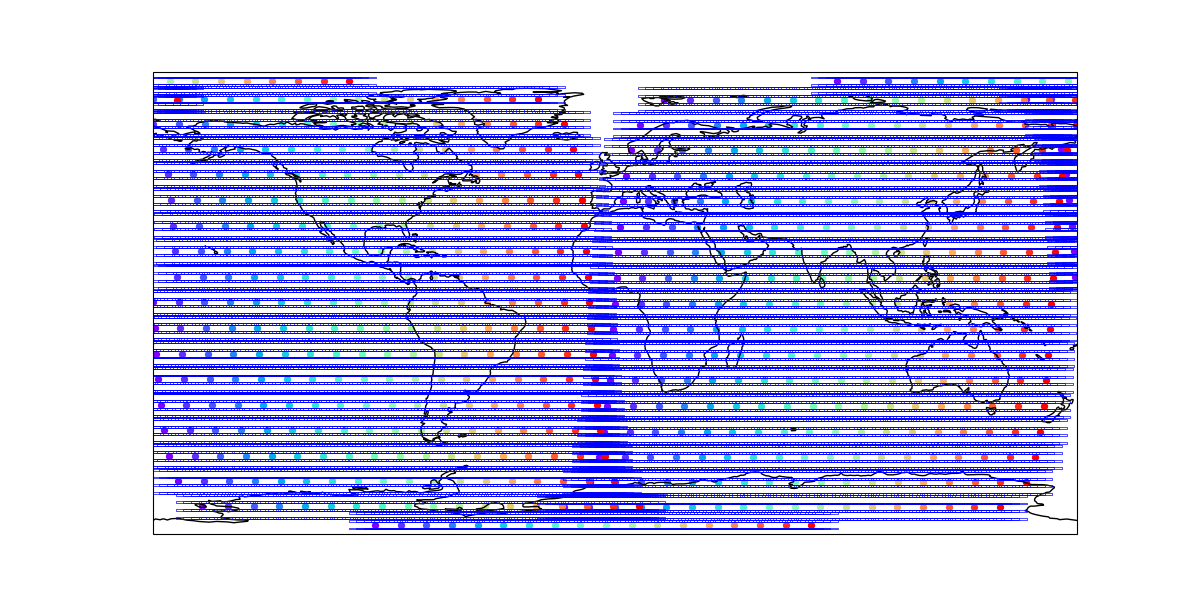
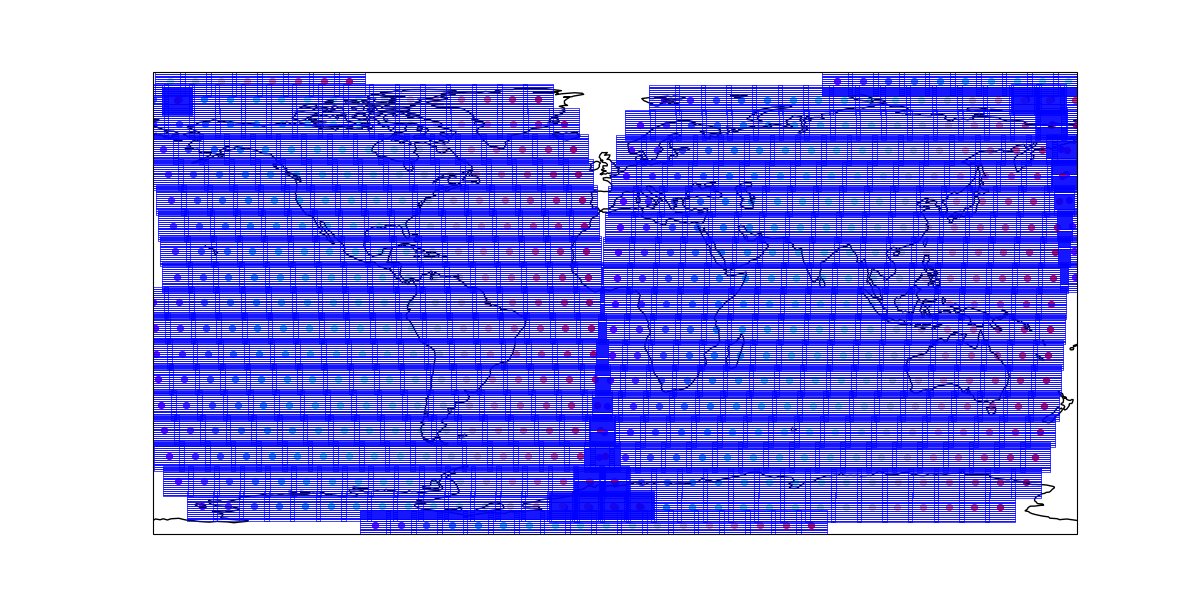
Fixed beam rectangles

diff --git a/LEOEnvironment.py b/LEOEnvironment.py
@@ -217,23 +217,31 @@ class Satellite:
         self.init_beams()
 
     def init_beams(self):
-        # OneWeb: coverage area is a square, divided into 16 horizontal rectangles
+        # OneWeb: coverage area is a square, divided into 16 horizontal strips (vertically stacked)
         total_area_km2 = 1_718_000
-        side_km = total_area_km2 ** 0.5  # side of the square in km
-        deg_per_km = 1 / 111  # 1 degree latitude ≈ 111 km
-        side_deg = side_km * deg_per_km
+        side_km = total_area_km2 ** 0.5  # ≈ 1310 km
         n_beams = 16
-        beam_height_deg = side_deg / n_beams
-        beam_width_deg = side_deg
+        beam_width_km = side_km
+        beam_height_km = side_km / n_beams  # ≈ 81.9 km
+
+        deg_per_km = 1 / 111  # Approximate conversion
+        beam_width_deg = beam_width_km * deg_per_km
+        beam_height_deg = beam_height_km * deg_per_km
 
         sat_lat = math.degrees(self.latitude)
         sat_lon = math.degrees(self.longitude)
 
-        # Center the grid on the satellite
+        # The top edge of the coverage square
+        top_lat = sat_lat + (side_km / 2) * deg_per_km
+
         for i in range(n_beams):
-            center_lat = sat_lat + (i - (n_beams - 1) / 2) * beam_height_deg
+            # Each beam's center is halfway between its top and bottom edge
+            beam_top = top_lat - i * beam_height_deg
+            beam_bottom = beam_top - beam_height_deg
+            center_lat = (beam_top + beam_bottom) / 2
             center_lon = sat_lon
-            self.beams.append(Beam(center_lat, center_lon, beam_width_deg, beam_height_deg))
+            beam_id = f"{self.ID}_beam_{i+1}"  # Number beams 1 to 16
+            self.beams.append(Beam(center_lat, center_lon, beam_width_deg, beam_height_deg, id=beam_id))
 
     def maxSlantRange(self):
         """
@@ -269,25 +277,30 @@ class Satellite:
     def update_beams(self):
         # Recalculate beam centers based on current satellite position
         total_area_km2 = 1_718_000
-        side_km = total_area_km2 ** 0.5
-        deg_per_km = 1 / 111
-        side_deg = side_km * deg_per_km
-        n_beams_side = 4
-        beam_width_deg = side_deg / n_beams_side
-        beam_height_deg = side_deg / n_beams_side
+        side_km = total_area_km2 ** 0.5  # ≈ 1310 km
+        n_beams = 16
+        beam_width_km = side_km
+        beam_height_km = side_km / n_beams  # ≈ 81.9 km
+
+        deg_per_km = 1 / 111  # Approximate conversion
+        beam_width_deg = beam_width_km * deg_per_km
+        beam_height_deg = beam_height_km * deg_per_km
 
         sat_lat = math.degrees(self.latitude)
         sat_lon = math.degrees(self.longitude)
 
-        idx = 0
-        for i in range(n_beams_side):
-            for j in range(n_beams_side):
-                center_lat = sat_lat + (i - 1.5) * beam_height_deg
-                center_lon = sat_lon + (j - 1.5) * beam_width_deg
-                # Update existing beam objects
-                self.beams[idx].center_lat = center_lat
-                self.beams[idx].center_lon = center_lon
-                idx += 1
+        # The top edge of the coverage square
+        top_lat = sat_lat + (side_km / 2) * deg_per_km
+
+        for i in range(n_beams):
+            beam_top = top_lat - i * beam_height_deg
+            beam_bottom = beam_top - beam_height_deg
+            center_lat = (beam_top + beam_bottom) / 2
+            center_lon = sat_lon
+            self.beams[i].center_lat = center_lat
+            self.beams[i].center_lon = center_lon
+            self.beams[i].width_deg = beam_width_deg
+            self.beams[i].height_deg = beam_height_deg
 
     def adjustDownRate(self):
 
